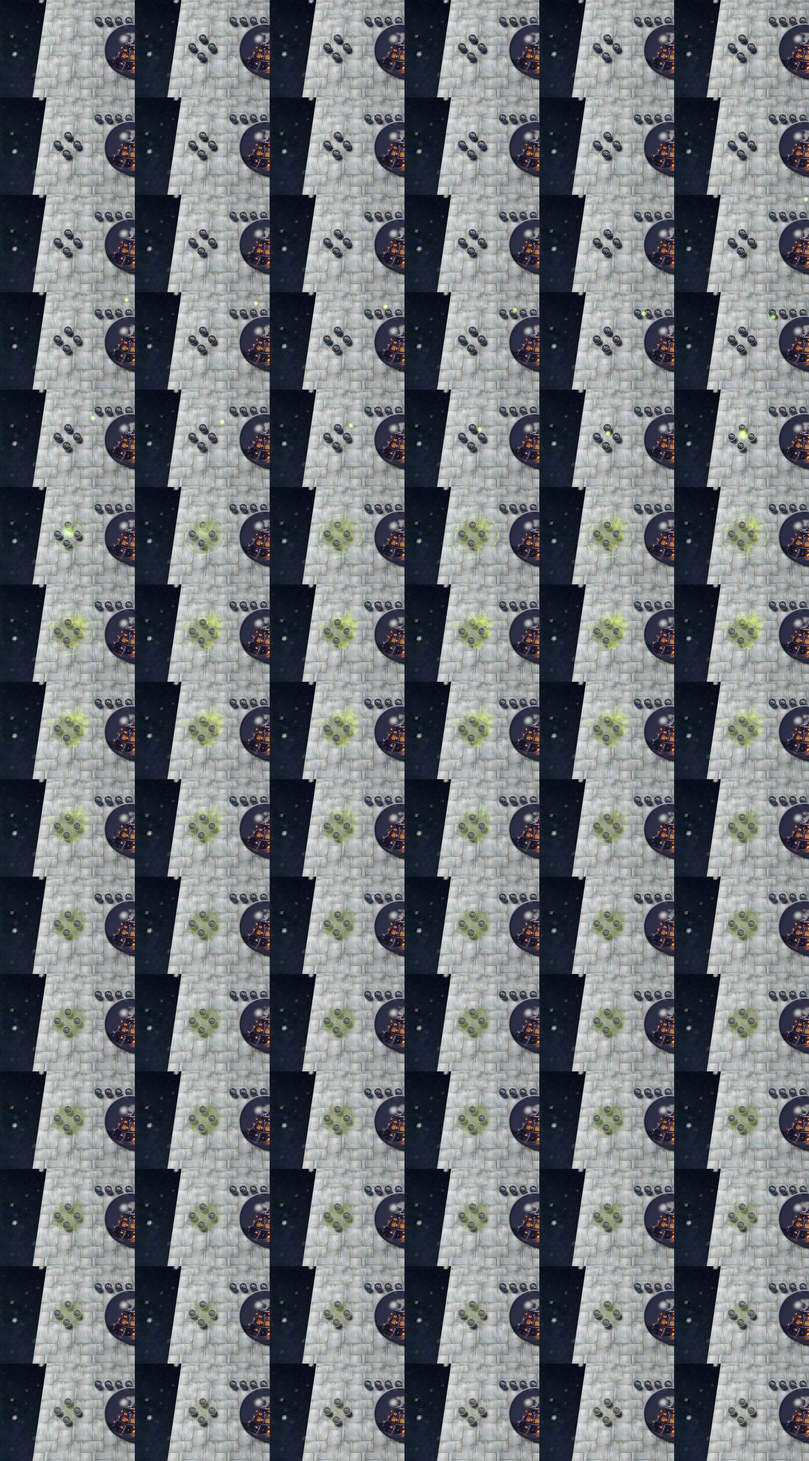
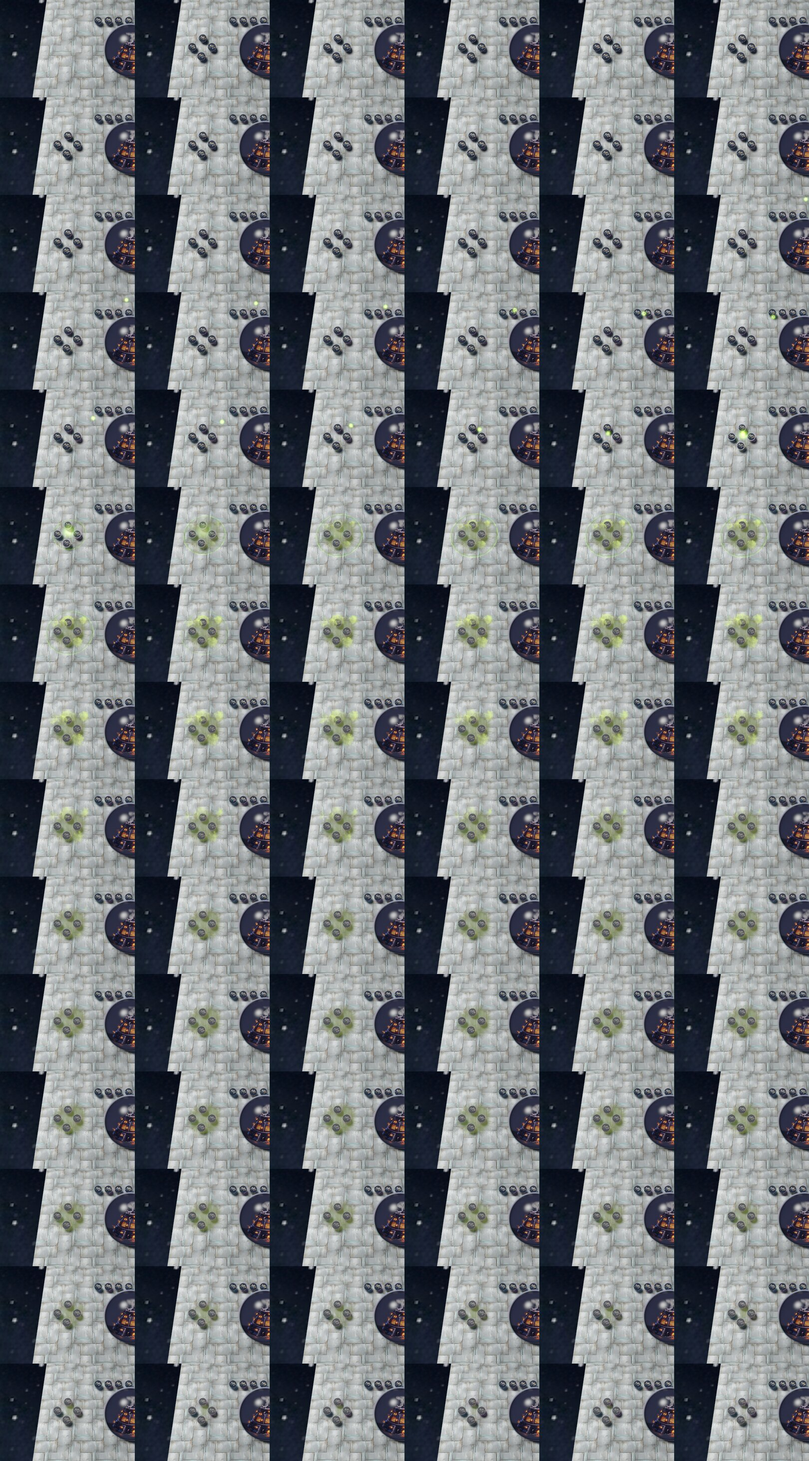
fix(effects): WP11 round 1 follow-ups: B-122, gate catalog, re-runs
No DamageOverTime look ships: the snapshot publishes the status kind only,
so a look keyed on it put Fungal Growth's spores on Psionic Storm's victims.
Registered as B-122 in DESIGN.md (the fix needs a per-status presentation
key in the snapshot, a simulation change) and recorded in Amendment 24;
fungal_affliction stays defined. The Fungal GPU test asserts the affliction
is held exactly when the vocabulary names one. client/weapon_look_tests joins
the catalog rule in crates/gate/suites.ron. Shots and area GPU tests re-run
on lavapipe after 0773bb59; measurements and Fungal sheets refreshed.

Claude-Session: https://claude.ai/code/session_01Tj7a5XZ4mBxWXnyoUg8xVU

diff --git a/crates/client/tests/area_link_gpu_tests.rs b/crates/client/tests/area_link_gpu_tests.rs
@@ -2649,6 +2649,24 @@ fn fungal_growth_flies_lands_and_afflicts() -> TestResult {
         landed as usize, expected,
         "each missile lands one impact, the enemy's where the viewer sees it"
     );
-    assert!(afflicted > 0, "the struck units wear the affliction");
+    // B-122: the snapshot does not say which spell a damage-over-time status came from, so
+    // no `DamageOverTime` look is shipped yet; when the vocabulary names one, it is held.
+    let catalog_names_one = {
+        let root = client::ResolvedAssetsRoot::resolve()?;
+        EffectCatalog::load(
+            &root
+                .as_path()
+                .join(client::effects::catalog::EFFECTS_CATALOG_PATH),
+            root.as_path(),
+        )?
+        .defaults
+        .status
+        .contains_key(&sim_types::StatusKind::DamageOverTime)
+    };
+    assert_eq!(
+        afflicted > 0,
+        catalog_names_one,
+        "the struck units wear the affliction exactly when the vocabulary names one"
+    );
     Ok(())
 }

diff --git a/docs/evidence/effects/review/independent_review_packet.md b/docs/evidence/effects/review/independent_review_packet.md
@@ -32,7 +32,7 @@ round ran on lavapipe, the CI reference. No radv picture exists for this round.
 | Explosive | `rocket_trail`, `grenade_lob`; `rocket_hit` | A hot flame at the rocket's head with a grey smoke trail broken by its noise; a dark tumbling shell with a dull glow; a small fireball, sparks and dark smoke where it bursts. |
 | Melee | `psi_slash`, `claw_rake`, `weld_sparks`, `impaler_strike` | A blue psionic crescent swung across the target at any angle; two pale crescents raked across it with dark flecks; a hot point and falling welding sparks; a chitin spike thrust up under the target with chips and dust. |
 | Death | `glass_shatter` | The bubble's glass breaking outward in pale shards, one soft pale flash, a little dust. |
-| Fungal Growth (F1) | `fungal_missile`, `fungal_trail`, `fungal_impact`, `fungal_affliction` | A clot of dark spores in a sickly yellow-green glow flying above the ground and shedding motes; where it lands, a burst of spores, a ring racing out to the spell's search radius, rising spore clouds and a mould stain fading over the status's duration; a fungaled unit beats with a yellow-green rim and sheds rising motes (a slowed unit reads grey and dull instead). |
+| Fungal Growth (F1) | `fungal_missile`, `fungal_trail`, `fungal_impact`, `fungal_affliction` | A clot of dark spores in a sickly yellow-green glow flying above the ground and shedding motes; where it lands, a burst of spores, a ring racing out to the spell's search radius, rising spore clouds and a mould stain fading over the status's duration; a fungaled unit shows the slow's grey, dull look on the fungal mark. The affliction look (`fungal_affliction`, a yellow-green rim and rising motes) is defined but not shipped: the snapshot cannot tell Fungal Growth's damage over time from a storm's (B-122). |
 
 ### How the shots are drawn, and the fog (Amendment 24)
 
@@ -56,7 +56,8 @@ round ran on lavapipe, the CI reference. No radv picture exists for this round.
 - `jet_jumper`, `void_goliath` and `colossus_mech`'s air weapon publish no event the client can draw (an instant
   weapon whose visual kind is `Projectile`), so they have no look; recorded as a simulation data question.
 - The cleave's direction, the Fungal impact's exact point (at most one tick's flight short) and per-status looks
-  (a storm's victims also wear `fungal_affliction`) are recorded in Amendment 24.
+  (B-122: no `DamageOverTime` look ships, since the client cannot tell a storm's from Fungal Growth's) are recorded
+  in Amendment 24.
 
 ### Material
 
@@ -81,7 +82,8 @@ The tests check, on lavapipe:
   and the impact. A slug's head, or a projectile's body, is within 3 px of where the shot has reached. Nothing is
   drawn after the shot's end. Under the fog over the muzzle half, no pixel over the unseen half changes.
 - **Fungal Growth** (`area_link_gpu_tests.rs`). The missile holds a look in flight, each missile lands one impact,
-  the enemy's lands where the viewer sees its target, and the victims wear the affliction.
+  the enemy's lands where the viewer sees its target, and the victims wear an affliction look exactly when the
+  vocabulary names one (none ships, B-122).
 - **No legacy card for a shipped unit.** The status battle's deaths, the control included, draw no legacy shards
   (`status_gpu_tests.rs`). The legacy-card tests (`round2_visual_tests.rs`, `combat_fx_slot_gpu_tests.rs`) are green
   unchanged.
@@ -99,7 +101,7 @@ The tests check, on lavapipe:
 - Whether the melee crescents read as blows, and whether any of them looks like a drawn arc or a UI element.
 - Whether `glass_shatter` is an acceptable default death next to the accepted named deaths.
 - Fungal Growth: whether the missile reads in flight; whether the impact's ring reads as the spell's area without
-  dominating; whether a fungaled unit reads differently from a slowed one.
+  dominating.
 - Pops: the looks start within a frame and end by eroding or fading. Check the first and last columns of each
   strip.
 

diff --git a/DESIGN.md b/DESIGN.md
@@ -216,6 +216,7 @@ detail differences of the plan's Amendment 2. Each work package removes its IDs 
 | B-118 | Under the gate's parallel lanes, `client/smog_bouncing_bubbles_tests` once failed after 469.5 s on the GPU lane (about 229 s expected) and passed alone in 187 s and in the repeated full run (full gate of `main` at `959ce4c`, 2026-11-11); the first attempt's log was not kept | [`2026-11-11-faster-gates`](docs/plans/2026-11-11-faster-gates.md) lane runtime; open, a second flake within a week makes it a bug to fix (tiered-gates blueprint §3.5) |
 | B-119 | The `Distortion` block read Bevy's scene copy at viewport-relative coordinates, so `flame_line`'s and `lance_sweep`'s heat haze sampled the wrong screen region in every battle (the copy covers the whole target, the battle camera's viewport excludes the HUD panels) | [`2026-11-09-effect-visualization`](docs/plans/2026-11-09-effect-visualization.md) Amendment 11; fixed in `effects-wp8` (`distortion.wgsl` reads the copy at the fragment's own target position), checked by `crates/client/tests/stance_gpu_tests.rs` |
 | B-120 | The bubble shader's low-health "critical glitch" (`FLAG_CRT_GLITCH`, `hp_ratio` below 0.35, `assets/shaders/bubble_dome.wgsl`) draws a rainbow speckle of chromatic aberration over a damaged unit, which reads as a rendering fault rather than as damage; not a StarCraft II deviation, kept here as the visual bug register (noted by the independent review of WP10 round 2 on units taking storm damage) | presentation polish; open |
+| B-122 | A damage-over-time status is published by kind only (`StatusFlags::damage_over_time`, `assets/catalog/statuses.ron` `presentation`), so the client cannot tell Fungal Growth's from Psionic Storm's: a look keyed on the kind would put Fungal Growth's spores on a storm's victims. No `DamageOverTime` look ships; a fungaled unit shows the slow (`concussive_daze`) and the fungal mark under it. Suggested fix: publish a presentation key per status (the status's name or a look id) in the snapshot, a simulation crate change (plan WP11 Amendment 24) | [`2026-11-09-effect-visualization`](docs/plans/2026-11-09-effect-visualization.md) WP11 follow-up; open |
 | B-121 | When an Abduct pull arrives and the two bubbles overlap, the tether look turns round (the caster-to-victim line flips) and paints its red grip and swelling over both units for about 160 ms (independent review WP10 round 4, P4-1). Suggested fix: fade or shrink the grip and the caster's swelling once the line is shorter than the grip, or end the look when the bubbles touch | [`2026-11-09-effect-visualization`](docs/plans/2026-11-09-effect-visualization.md) WP10 polish; open |
 
 ---

diff --git a/docs/plans/2026-11-09-effect-visualization.md b/docs/plans/2026-11-09-effect-visualization.md
@@ -2474,7 +2474,7 @@ matter flying the path.
 | Tools | `weld_sparks` (impact) | `welder_drone`, `grav_harvester` |
 | Impaler | `impaler_strike` (impact) | `thorn_lasher_dome` |
 | Death | `glass_shatter` (`defaults.death`) | every unit and structure whose block names no death |
-| Fungal Growth (F1) | `fungal_missile` (held), `fungal_trail`, `fungal_impact`; `fungal_affliction` and `fungal_motes` (`defaults.status.DamageOverTime`) | `mycelium_shaman` (`"Fungal Growth"`) |
+| Fungal Growth (F1) | `fungal_missile` (held), `fungal_trail`, `fungal_impact`; `fungal_affliction` and `fungal_motes` defined but named by no default (B-122, below) | `mycelium_shaman` (`"Fungal Growth"`) |
 
 The flame jet (`napalm_wheeler`) names no travel: its jet is its splash, so its legacy tracer is gone. The sieged
 tank and the Liberator analogue gain a travel next to their accepted splash. The accepted effects themselves are
@@ -2500,8 +2500,12 @@ unchanged.
 - **Fungal impact position.** The simulation stops publishing a missile on the tick it lands, so its impact is laid
   where it was drawn last: at most one tick's flight short of the target point (0.67 units for Fungal Growth). An
   exact point needs a published impact (a presentation-only event). Recorded.
-- **`DamageOverTime` is one status kind.** The status table is per kind, so a unit hurt by a storm also wears
-  `fungal_affliction`. A look per status needs the status's name in the snapshot (a simulation change). Recorded.
+- **`DamageOverTime` is one status kind (B-122, registered in `DESIGN.md`).** The snapshot publishes the kind only,
+  so a look keyed on it would put Fungal Growth's spores on a storm's victims (a wrong look in play). No
+  `DamageOverTime` default ships: a fungaled unit shows the slow (`concussive_daze`) and stands on the fungal mark,
+  which lasts the status's duration. `fungal_affliction` stays defined for when a per-status presentation key is
+  published (a simulation change). Keying on the flag combination `DamageOverTime + Revealed`, which only Fungal
+  Growth sets today, was rejected: it is an accident of today's catalog, not a published fact.
 - **Units without media stay unpresented.** In a battle the looks draw only for units with media. Shown only in the
   lab, or by stand-ins in the tests: `tripod_annihilator` (`lance_beam`, `lance_burn`), `void_goliath` (none),
   `mycelium_shaman` (the Fungal looks; the GPU evidence casts it from a presentable stand-in given a copy of the
